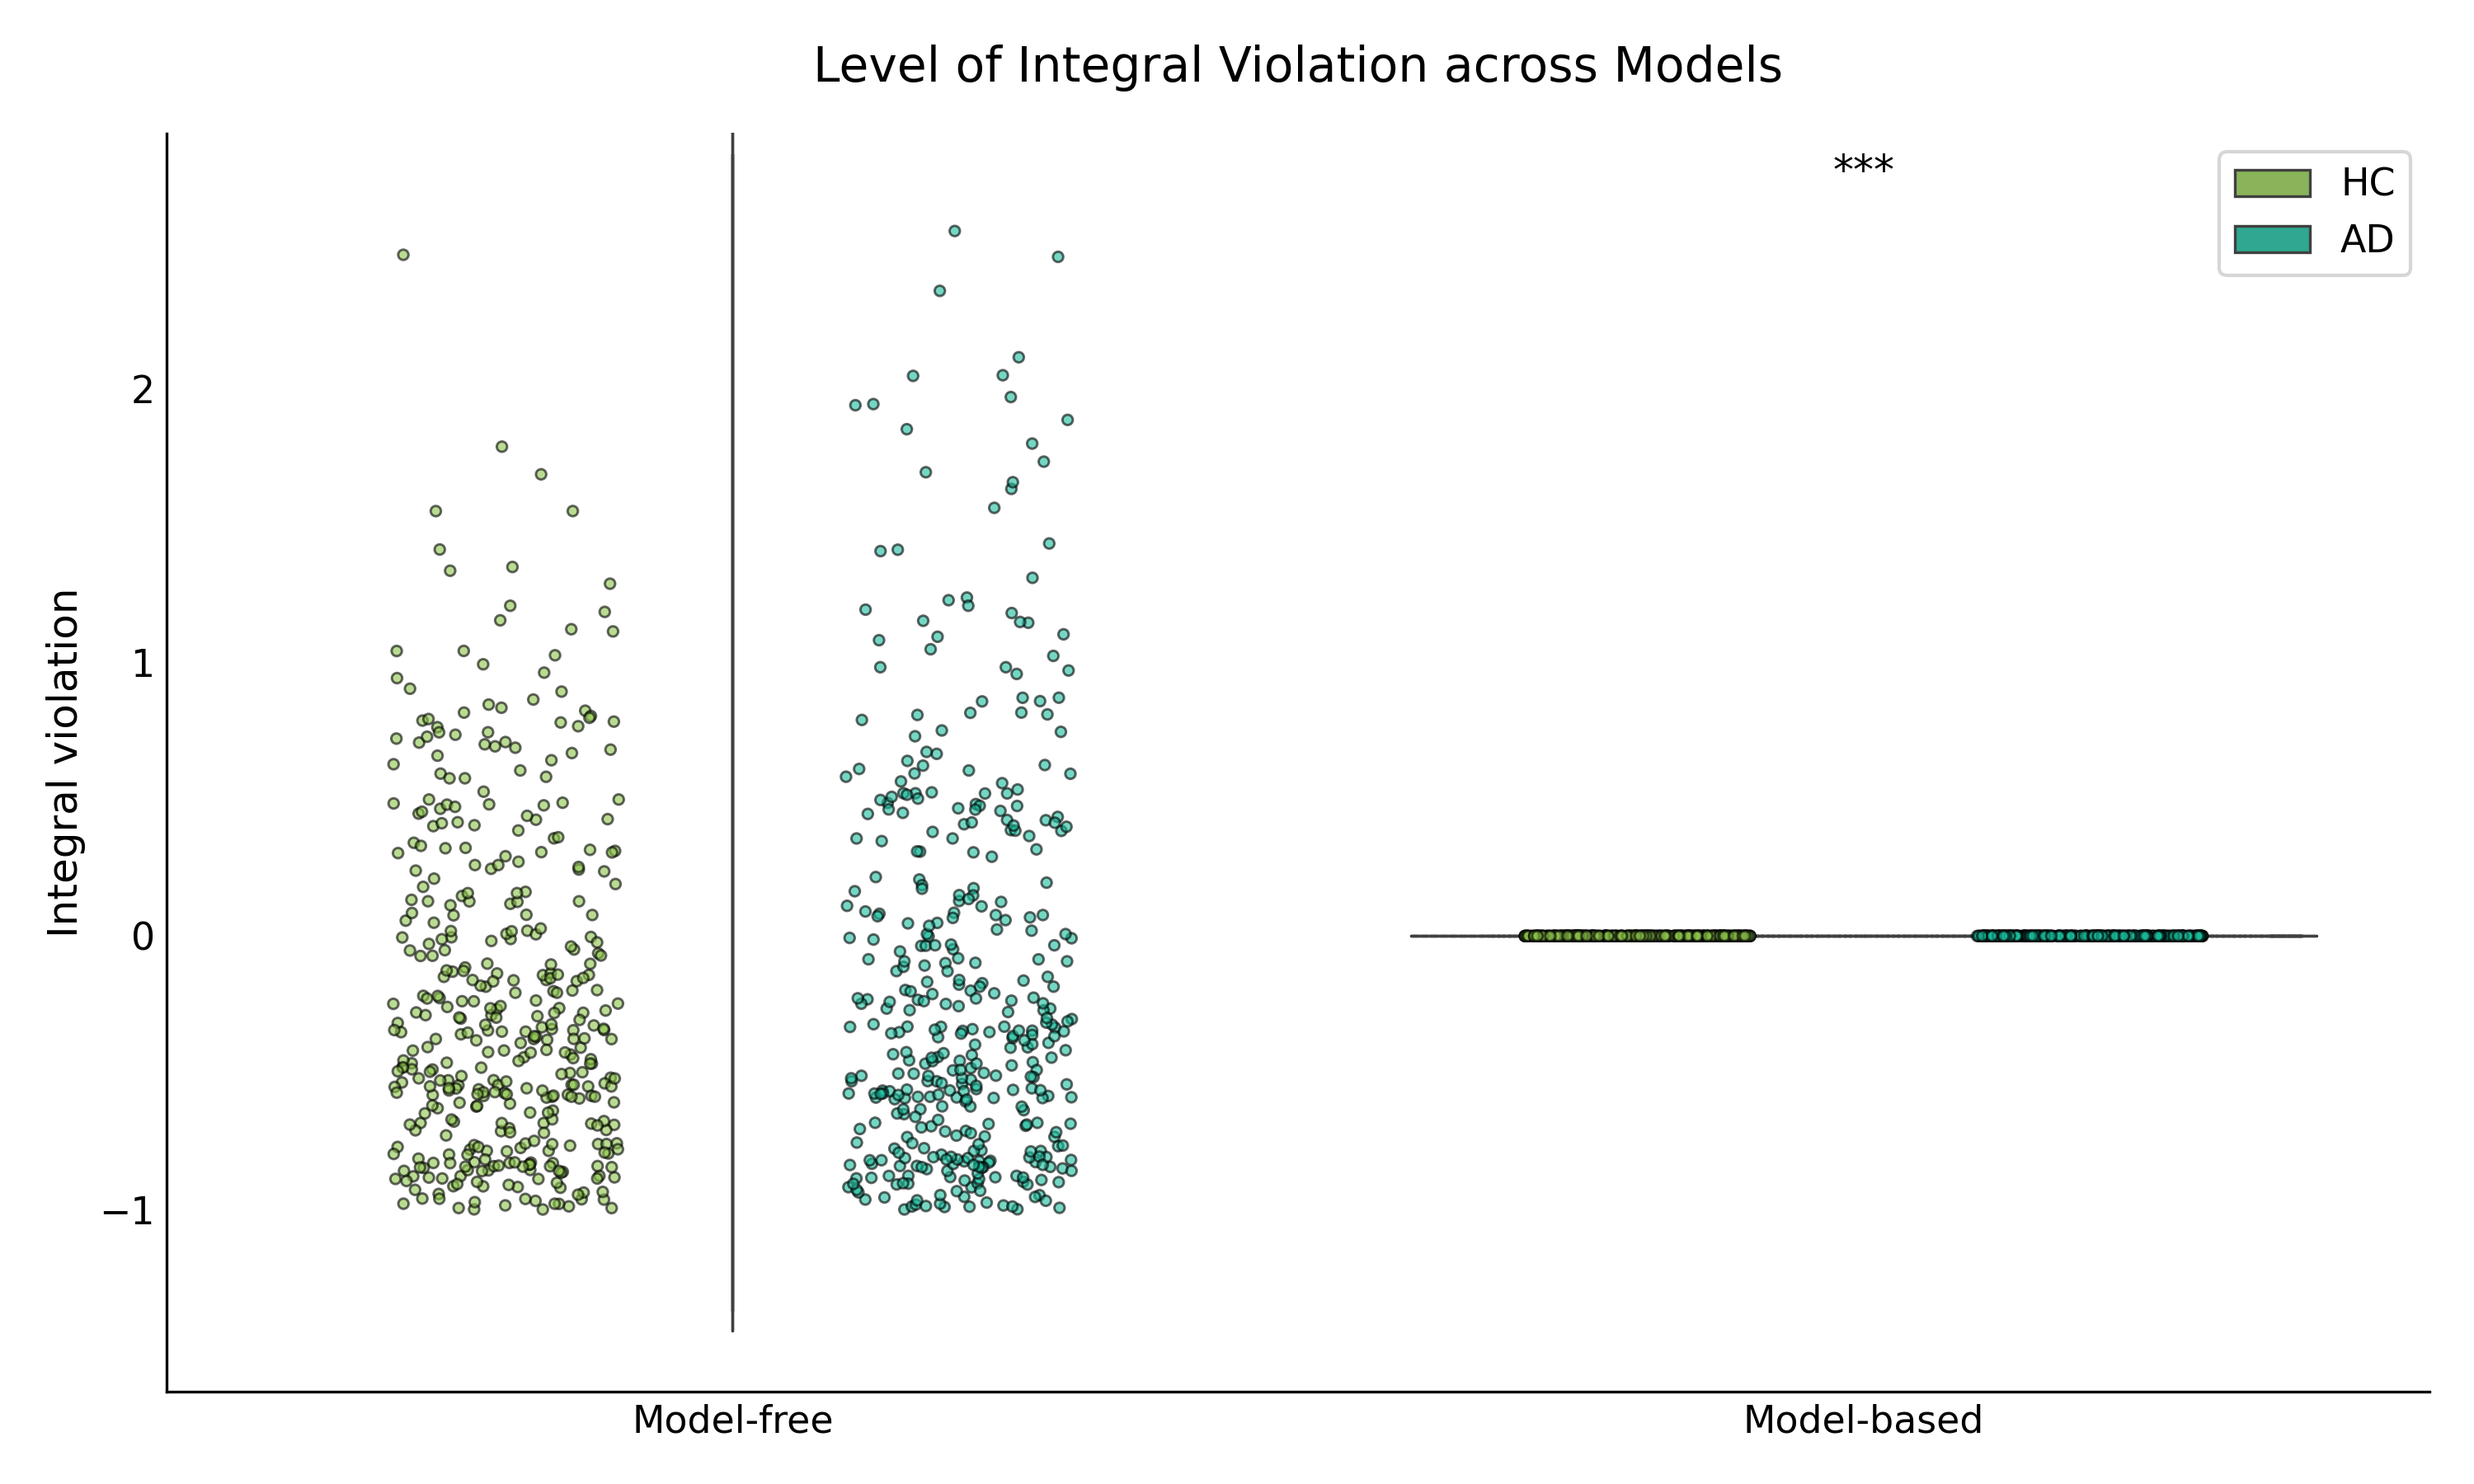
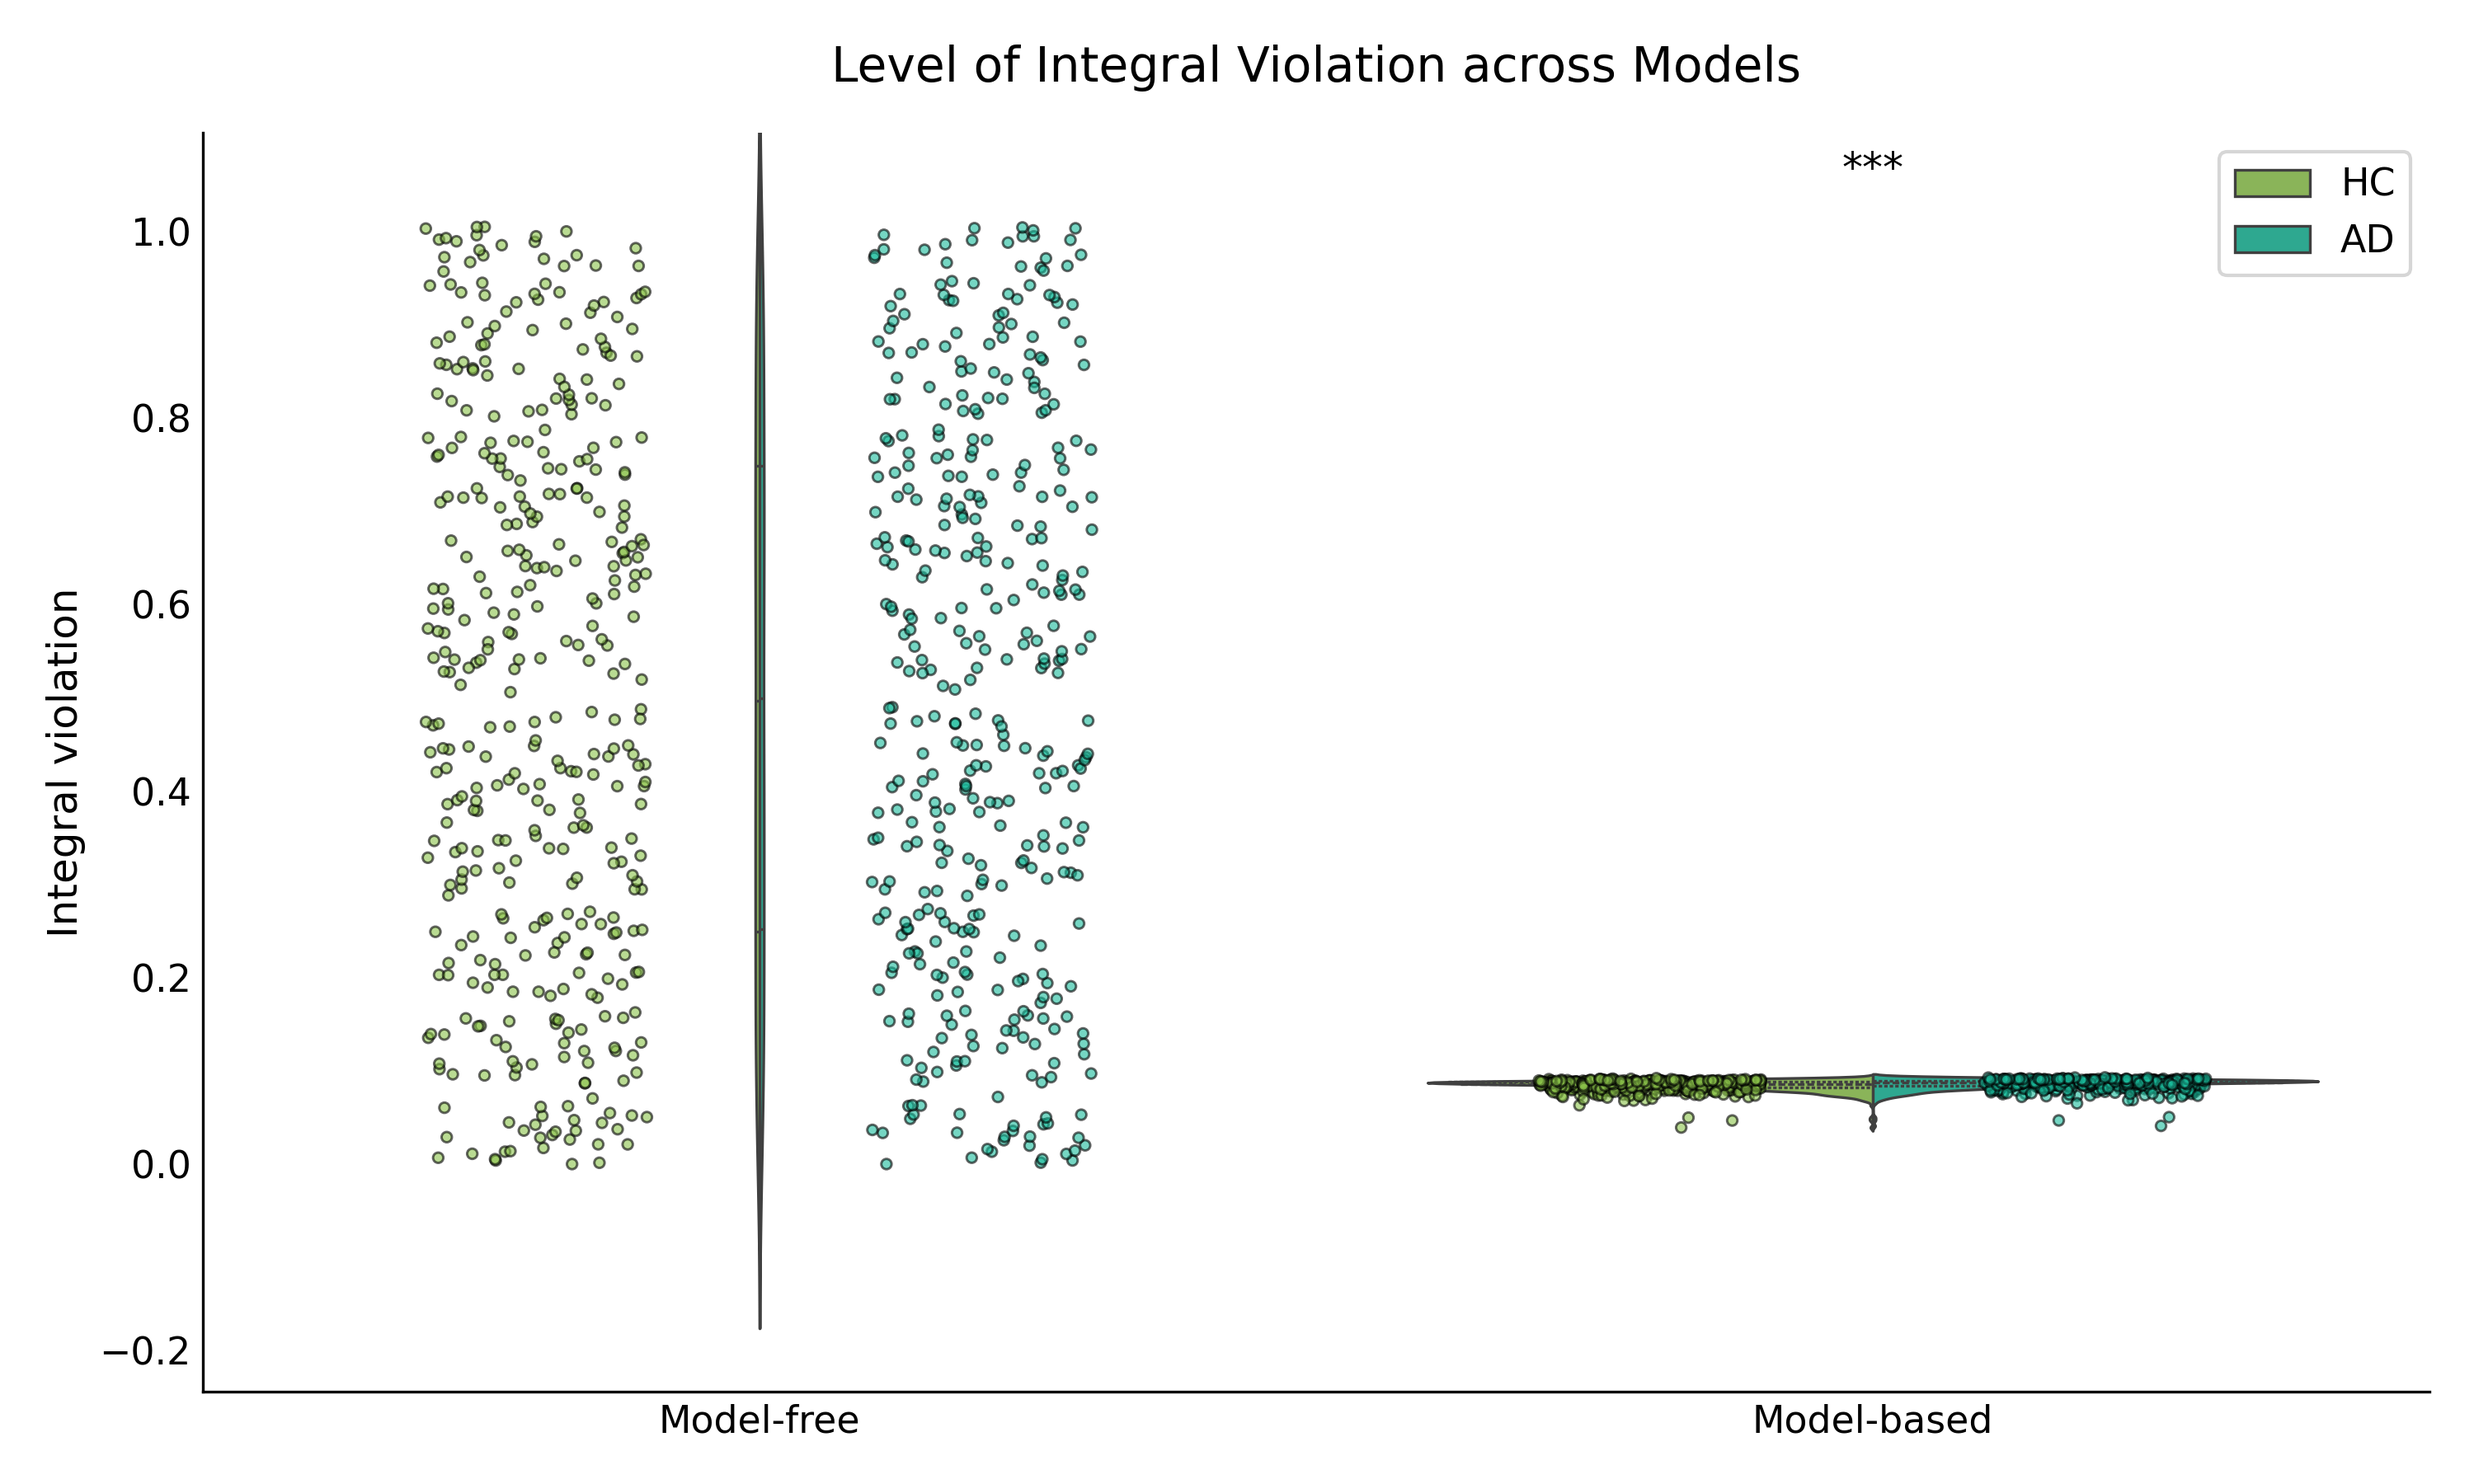
updata

diff --git a/compute_analysis.py b/compute_analysis.py
@@ -1077,14 +1077,14 @@ def radarplot(rsn_means_df: pd.DataFrame, rsn_names: list):
         radialaxis=dict(
         visible=True,
         # === Tick spacing ===
-        dtick=0.02,          # 4 tick steps → gives 5 ticks (0, .25, .50, .75, 1.0)
+        dtick=0.1,          # 4 tick steps → gives 5 ticks (0, .25, .50, .75, 1.0)
         ticklabelstep=1,     # label every tick → 4 "value labels" between min & max
 
         # === Tick styling ===
         tickfont=dict(size=18, color="black", family="Arial"),
 
         # === Optional: explicitly set axis range (helps control ticks) ===
-        range=[0, 0.07],
+        range=[0, 0.9],
 
         showline=True,
         gridcolor="lightgray",
@@ -1121,7 +1121,7 @@ RSN_ORDER_val = ['Vis','SalVentAttn', 'SomMot', 'DorsAttn', 'Limbic', 'Cont', 'D
 GROUPS_ORDER_val = ['HC', 'AD']
 
 
-DL_type = 'DL_B1'
+DL_type = 'DL_B2'
 model_type1 = 'modelfree'  # 'modelfree' or 'modelbased'
 model_type2 = 'modelbased'
 NPARCELLS = 400 # max 379 for DL_A, max 400 for DL_B
@@ -1158,7 +1158,7 @@ print([np.mean(diff) for diff in df_based['diff'][110:115]])
 print([np.mean(diff) for diff in df_based['diff'][10:15]])
 
 
-measure = 'diff'
+measure = 'I_norm2'
 
 
 # #print(df.columns)
@@ -1168,7 +1168,7 @@ measure = 'diff'
 # subject_comparison(df_based, 'ABeta', 'modelbased', NPARCELLS, fit_sigma, fit_a, save_path_plot=save_path_plot)
 # subject_comparison(df_based, 'Tau', 'modelbased', NPARCELLS, fit_sigma, fit_a, save_path_plot=save_path_plot)
 #print(np.max([np.max(arr) for arr in df['ABeta'].values if isinstance(arr, np.ndarray)]))
-# scatter_plot_3d(df_based)
+scatter_plot_3d(df_free)
 # scatter_plot_3d_2(df_based)
 
 
@@ -1250,7 +1250,7 @@ plot_multi_model_comparison_violin(
     # save_path='./plots'  # Uncomment to save
 )
 
-df = df_based
+df = df_free
 plot_ready_df = aggregate_all_rsns_for_plotting(
     df=df,
     measure=measure,

diff --git a/compute_FDT_modelfree.py b/compute_FDT_modelfree.py
@@ -90,7 +90,7 @@ def _analysisFdt_AsymptoticNorm(Cts, Xts, sigma, n_burn_in=None):
     
     if n_burn_in is None:
         # Default burn-in to discard the first third of data
-        n_burn_in = nsteps // 3 
+        n_burn_in = nsteps // 30 
     
     # 1. Steady-state Variance (C^infinity): C(t,t) averaged over steady-state time
     # This is the average of the diagonal C(t,t) after burn-in.
@@ -110,12 +110,6 @@ def _analysisFdt_AsymptoticNorm(Cts, Xts, sigma, n_burn_in=None):
     I_norm_inf = 1.0 - T * (Chi_inf / C_inf)
     
     return I_norm_inf
-
-# Example Usage: (Assuming you run the simulation and split the signal)
-# C, R, I, I_norm2, X_norm2 = _analysisFdt2(x, eta, sigma, dt, normalize=True)
-# I_norm_inf = _analysisFdt_AsymptoticNorm(C, X_norm2, sigma)
-# print(f"Asymptotic Normalized FDT Violation (I-bar-infinity): {I_norm_inf}")
-
 
 DL_type = 'DL_B2'
 filt = True

diff --git a/src/data_loaders/ADNI_B.py b/src/data_loaders/ADNI_B.py
@@ -128,9 +128,9 @@ class ADNI_B_N238rev:
         if filt:
             fMRI_folder = self.base_folder + 'tseries_filt/sch400/'
             if prefiltered_fMRI:
-                self.fMRI_path = fMRI_folder + 'tseries_ADNI3_{}_MPRAGE_IRFSPGR_N238rev.mat'
+                self.fMRI_path = fMRI_folder + 'tseries_ADNI3_{}_MPRAGE_IRFSPGR_sch400_N238rev.mat'
             else:
-                self.fMRI_path = fMRI_folder + 'tseries_ADNI3_{}_MPRAGE_IRFSPGR_N238rev.mat'
+                self.fMRI_path = fMRI_folder + 'tseries_ADNI3_{}_MPRAGE_IRFSPGR_sch400_N238rev.mat'
             self.ID_path = fMRI_folder + 'PTID_ADNI3_{}_MPRAGE_IRFSPGR_all.mat'
         else:
             fMRI_folder = self.base_folder + 'tseries/sch400/'

diff --git a/src/functions_frameworks/functions_FDT_modelfree.py b/src/functions_frameworks/functions_FDT_modelfree.py
@@ -122,7 +122,7 @@ def _analysisFdt2(x, eta, sigma, dt, normalize=True):
         Ctt = np.diag(Cts)  # Shape: (nsteps,)
         
         # Normalize I: I_norm2(t,s) = I(t,s) / C(t,t)
-        I_norm2 = Its / (2*Ctt[:, np.newaxis])
+        I_norm2 = Its / (Ctt[:, np.newaxis])
         
         # Normalize X: X_norm2(t,s) = sigma^2 * X(t,s) / (2*C(t,t))
         X_norm2 = (sigma ** 2 * Xts) / (2 * Ctt[:, np.newaxis])
